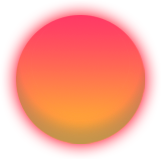
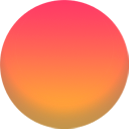
Updated chips textures

diff --git a/main_screen.py b/main_screen.py
@@ -58,11 +58,11 @@ def draw_board(matrix: list, screen):
                 screen.blit(chip_2, (x, y))
 
 
-background_image = pg.image.load("images/game_screens/old_west/game_screen.png")
+background_image = pg.image.load("images/game_screens/vaporwave/game_screen.png")
 
-chip_1 = pg.image.load("images/game_screens/old_west/chip_1.png")
+chip_1 = pg.image.load("images/game_screens/vaporwave/chip_1.png")
 
-chip_2 = pg.image.load("images/game_screens/old_west/chip_2.png")
+chip_2 = pg.image.load("images/game_screens/vaporwave/chip_2.png")
 
 pg.init()
 
